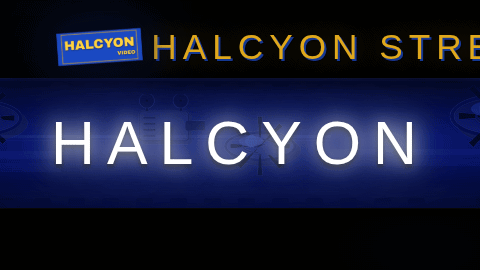
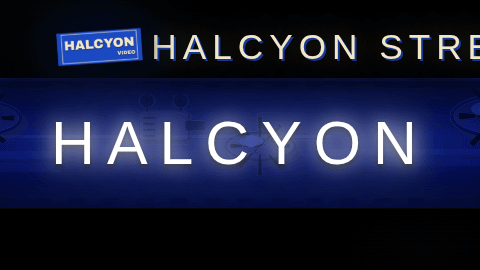
2.5D: the flat stylesheet still wore the old gold
The 2026-08-13 de-gold moved palette.secondary/accent to cream and every 3D
surface followed, because they read the token. flat.css did not: it had the
pre-de-gold brass #e0a81c written out as rgba(224, 168, 28, a) in nineteen
places — card borders, the focus ring and its outer halo, the row-header
dashes, the menu focus box, the detail-overlay chrome — so 2.5D mode kept
rendering the livery the rest of the app had left behind. Two of its own
header rules already took the token and were sitting next to a hardcoded
neighbour, which is how it went unnoticed.

All nineteen now take --bb-secondary-rgb, the value themes.ts already
publishes from the active palette (so a brand pack repaints 2.5D the same way
it repaints the store). The two --bb-secondary-rgb fallbacks that still spelled
the gold out are cream now too, so the token and its fallback agree.

Found while reshooting the README screenshots: flat-libraries.jpg came back
gold from a tree whose 3D shots were all cream.

Claude-Session: https://claude.ai/code/session_015ao5sS692CKaLMuQUqMGGK

Changed region(s): [[0.125, 0.0889, 0.75, 0.237], [0.7812, 0.1185, 1.0, 0.237]]

diff --git a/src/flat/flat.css b/src/flat/flat.css
@@ -93,7 +93,7 @@
   text-shadow:
     2px 2px 0 rgba(var(--bb-primary-rgb, 15, 77, 58), 0.75),
     3px 3px 0 rgba(0, 0, 0, 0.5),
-    0 0 28px rgba(var(--bb-secondary-rgb, 201, 162, 39), 0.3);
+    0 0 28px rgba(var(--bb-secondary-rgb, 242, 232, 201), 0.3);
   margin: 0;
   text-transform: uppercase;
   white-space: nowrap;
@@ -110,7 +110,7 @@
   padding: 3px 16px;
   border-radius: 4px;
   background: rgba(0, 0, 0, 0.4);
-  border: 1px solid rgba(var(--bb-secondary-rgb, 201, 162, 39), 0.3);
+  border: 1px solid rgba(var(--bb-secondary-rgb, 242, 232, 201), 0.3);
   white-space: nowrap;
 }
 
@@ -214,7 +214,10 @@
    LIBRARY CARDS — Glossy Blue Metal Tickets
    Each card is surfaced like the logo's ticket: deep blue with a subtle
    center-to-edge gradient, a metallic shimmer sweep on hover, and a
-   golden border that glows on focus.
+   house-ink border that glows on focus. That ink is `--bb-secondary-rgb`
+   (themes.ts sets it from the active palette), never a literal — the whole
+   file used to hardcode the pre-2026-08-13 gold #e0a81c, so 2.5D mode kept
+   wearing the old livery after the 3D store moved to cream.
    ═══════════════════════════════════════════════════════════════════════════ */
 
 .flat-library-grid {
@@ -244,7 +247,7 @@
       rgba(18, 50, 132,  0.65) 70%,
       rgba(14, 40, 107,  0.6) 100%
     );
-  border: 1.5px solid rgba(224, 168, 28,  0.35);
+  border: 1.5px solid rgba(var(--bb-secondary-rgb, 242, 232, 201), 0.35);
   border-radius: 16px;
   padding: 34px 30px 26px;
   display: flex;
@@ -324,11 +327,11 @@
 .flat-library-card:focus,
 .flat-library-card.is-focused {
   transform: translateY(-10px) rotateX(2deg);
-  border-color: rgba(224, 168, 28,  0.75);
+  border-color: rgba(var(--bb-secondary-rgb, 242, 232, 201), 0.75);
   box-shadow:
     0 22px 52px rgba(0, 0, 0, 0.65),
     0 0 36px rgba(26, 73, 194,  0.3),
-    0 0 64px rgba(224, 168, 28,  0.1),
+    0 0 64px rgba(var(--bb-secondary-rgb, 242, 232, 201), 0.1),
     inset 4px -4px 0 rgba(0, 0, 0, 0.38),
     inset -1px 1px 0 rgba(255, 255, 255, 0.1);
   outline: none;
@@ -344,8 +347,8 @@
 .flat-library-card:focus,
 .flat-library-card.is-focused {
   box-shadow:
-    0 0 0 3px rgba(224, 168, 28,  0.9),
-    0 0 0 8px rgba(224, 168, 28,  0.18),
+    0 0 0 3px rgba(var(--bb-secondary-rgb, 242, 232, 201), 0.9),
+    0 0 0 8px rgba(var(--bb-secondary-rgb, 242, 232, 201), 0.18),
     0 22px 52px rgba(0, 0, 0, 0.65),
     0 0 36px rgba(26, 73, 194,  0.3),
     inset 4px -4px 0 rgba(0, 0, 0, 0.38);
@@ -398,10 +401,10 @@
   letter-spacing: 1.5px;
   margin: 0;
   padding: 5px 16px 4px;
-  border: 1px dashed rgba(224, 168, 28,  0.65);
+  border: 1px dashed rgba(var(--bb-secondary-rgb, 242, 232, 201), 0.65);
   border-radius: 999px;
-  background: rgba(224, 168, 28,  0.06);
-  text-shadow: 0 0 8px rgba(224, 168, 28,  0.25);
+  background: rgba(var(--bb-secondary-rgb, 242, 232, 201), 0.06);
+  text-shadow: 0 0 8px rgba(var(--bb-secondary-rgb, 242, 232, 201), 0.25);
   position: relative;
   z-index: 2;
 }
@@ -562,11 +565,11 @@
 }
 
 .case.is-focused .case__front {
-  border-color: rgba(224, 168, 28,  0.85);
+  border-color: rgba(var(--bb-secondary-rgb, 242, 232, 201), 0.85);
   box-shadow:
     inset 0 0 14px rgba(255, 255, 255, 0.1),
-    0 0 0 1.5px rgba(224, 168, 28,  0.55),
-    0 0 24px rgba(224, 168, 28,  0.3);
+    0 0 0 1.5px rgba(var(--bb-secondary-rgb, 242, 232, 201), 0.55),
+    0 0 24px rgba(var(--bb-secondary-rgb, 242, 232, 201), 0.3);
 }
 
 /* Spine */
@@ -680,7 +683,7 @@
   margin: 8px 0;
   text-shadow:
     1px 1px 2px rgba(0, 0, 0, 0.5),
-    0 0 4px rgba(224, 168, 28,  0.2);
+    0 0 4px rgba(var(--bb-secondary-rgb, 242, 232, 201), 0.2);
 }
 
 /* Clamshell tray */
@@ -931,7 +934,7 @@
   color: #ffffff;
   text-shadow:
     0 4px 12px rgba(0, 0, 0, 0.5),
-    0 0 20px rgba(224, 168, 28,  0.1);
+    0 0 20px rgba(var(--bb-secondary-rgb, 242, 232, 201), 0.1);
   border-left: 5px solid var(--bb-secondary, #f2e8c9);
   padding-left: 16px;
   text-transform: uppercase;
@@ -1469,11 +1472,11 @@
 
 .flat-search-input-wrapper:has(.flat-search-input.is-focused),
 .flat-search-input-wrapper:has(.flat-search-input:focus) {
-  border-color: rgba(224, 168, 28,  0.6);
+  border-color: rgba(var(--bb-secondary-rgb, 242, 232, 201), 0.6);
   background: rgba(255, 255, 255, 0.05);
   box-shadow:
     0 12px 44px rgba(0, 0, 0, 0.6),
-    0 0 22px rgba(224, 168, 28,  0.12);
+    0 0 22px rgba(var(--bb-secondary-rgb, 242, 232, 201), 0.12);
 }
 
 .flat-search-icon {
@@ -1526,10 +1529,10 @@
 }
 
 .flat-search-results-grid .case.is-focused .case__front {
-  border: 1.5px solid rgba(224, 168, 28,  0.85);
+  border: 1.5px solid rgba(var(--bb-secondary-rgb, 242, 232, 201), 0.85);
   box-shadow:
     inset 0 0 10px rgba(255, 255, 255, 0.1),
-    0 0 20px rgba(224, 168, 28,  0.3);
+    0 0 20px rgba(var(--bb-secondary-rgb, 242, 232, 201), 0.3);
 }
 
 /* ═══════════════════════════════════════════════════════════════════════════
@@ -1558,7 +1561,7 @@
 .flat-search-empty-icon {
   font-size: 4rem;
   margin-bottom: 24px;
-  filter: drop-shadow(0 0 18px rgba(224, 168, 28,  0.3));
+  filter: drop-shadow(0 0 18px rgba(var(--bb-secondary-rgb, 242, 232, 201), 0.3));
   animation: flat-float 3s ease-in-out 3;
 }
 
@@ -1721,7 +1724,7 @@
   outline: none;
 }
 
-.flat-menu-item.is-focused { box-shadow: 0 0 0 2px rgba(224, 168, 28,  0.45); }
+.flat-menu-item.is-focused { box-shadow: 0 0 0 2px rgba(var(--bb-secondary-rgb, 242, 232, 201), 0.45); }
 
 .flat-menu-item-icon {
   width: 18px;
